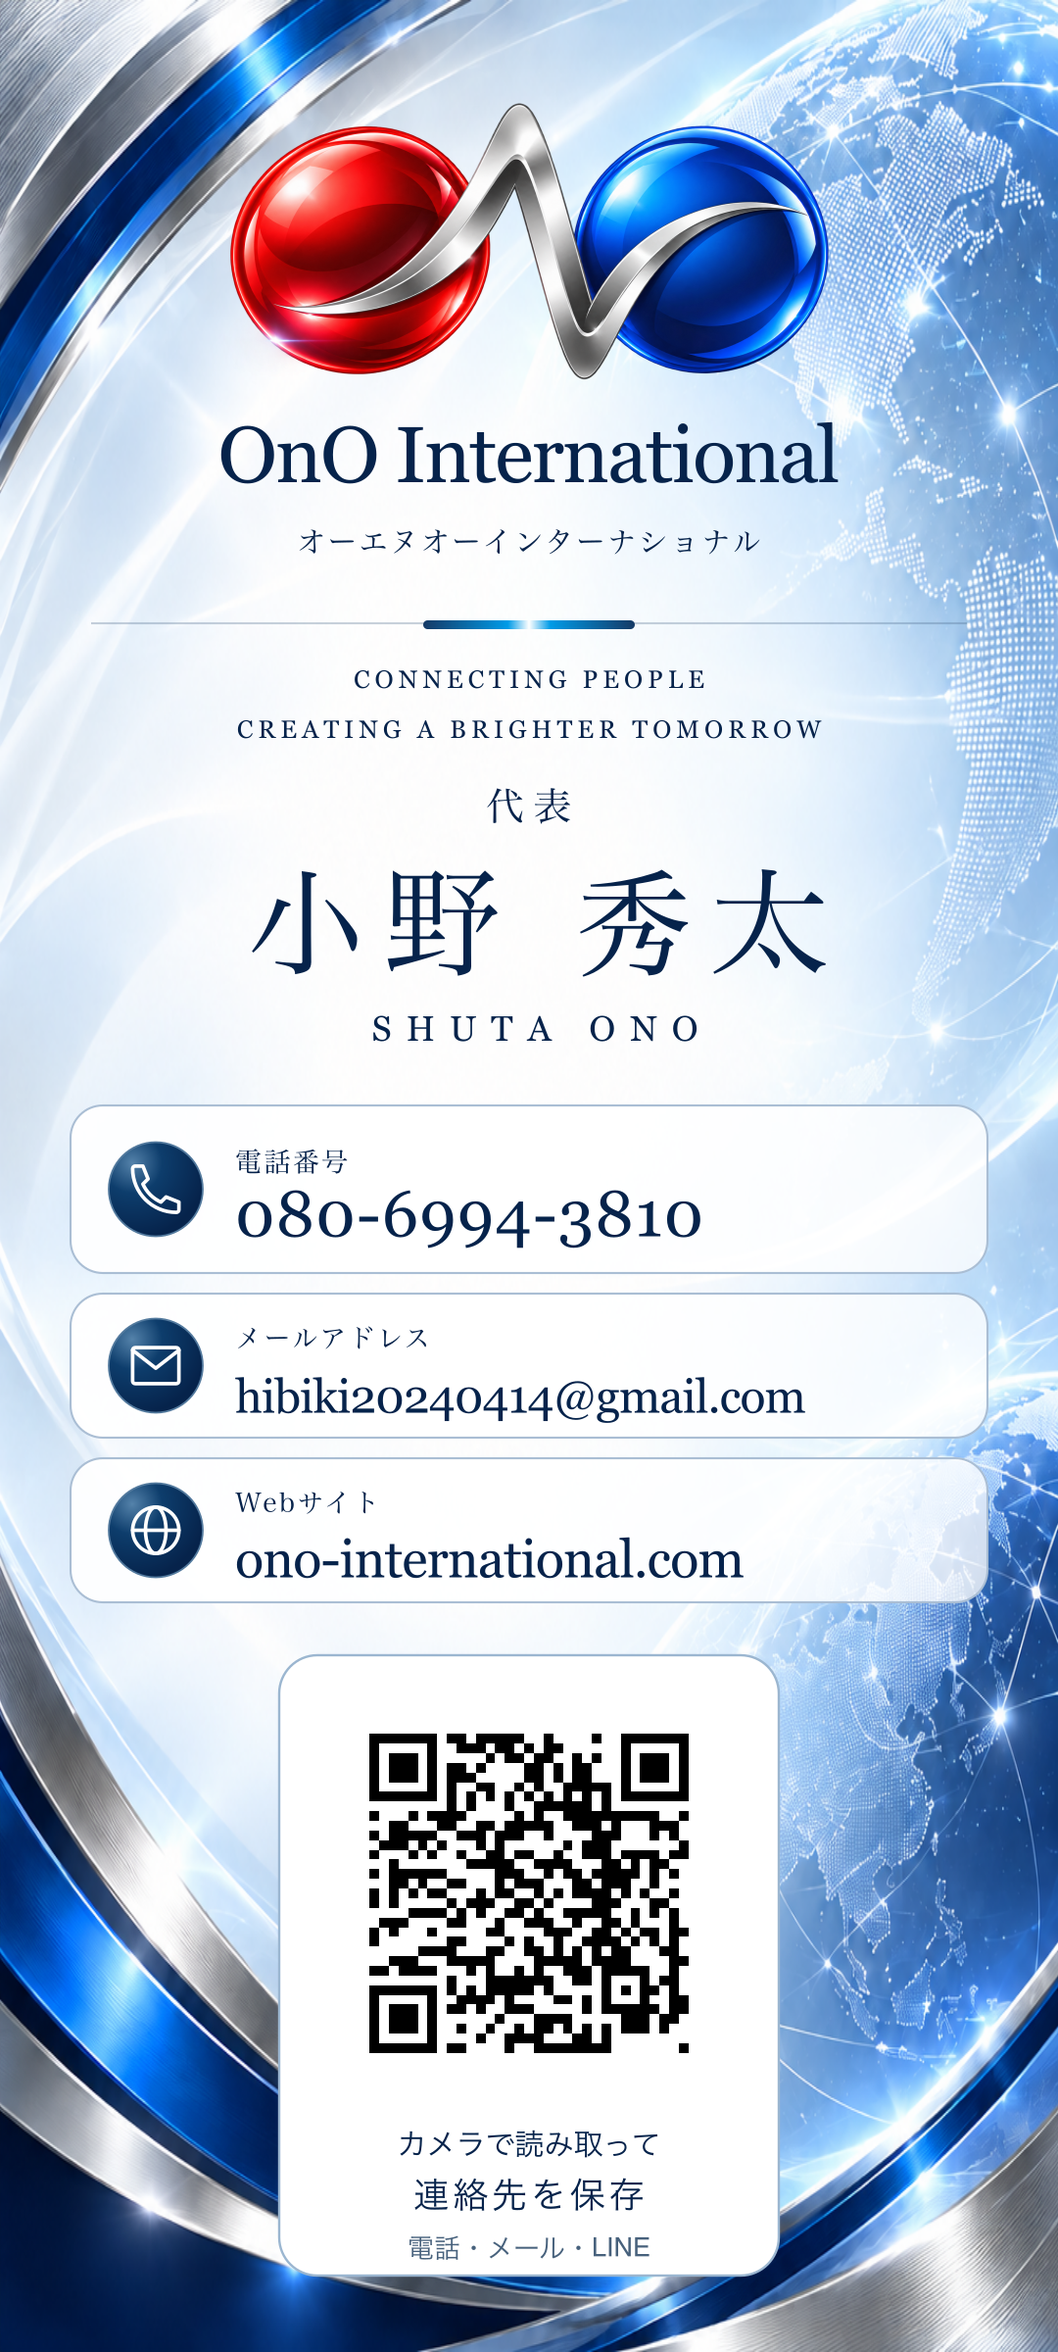
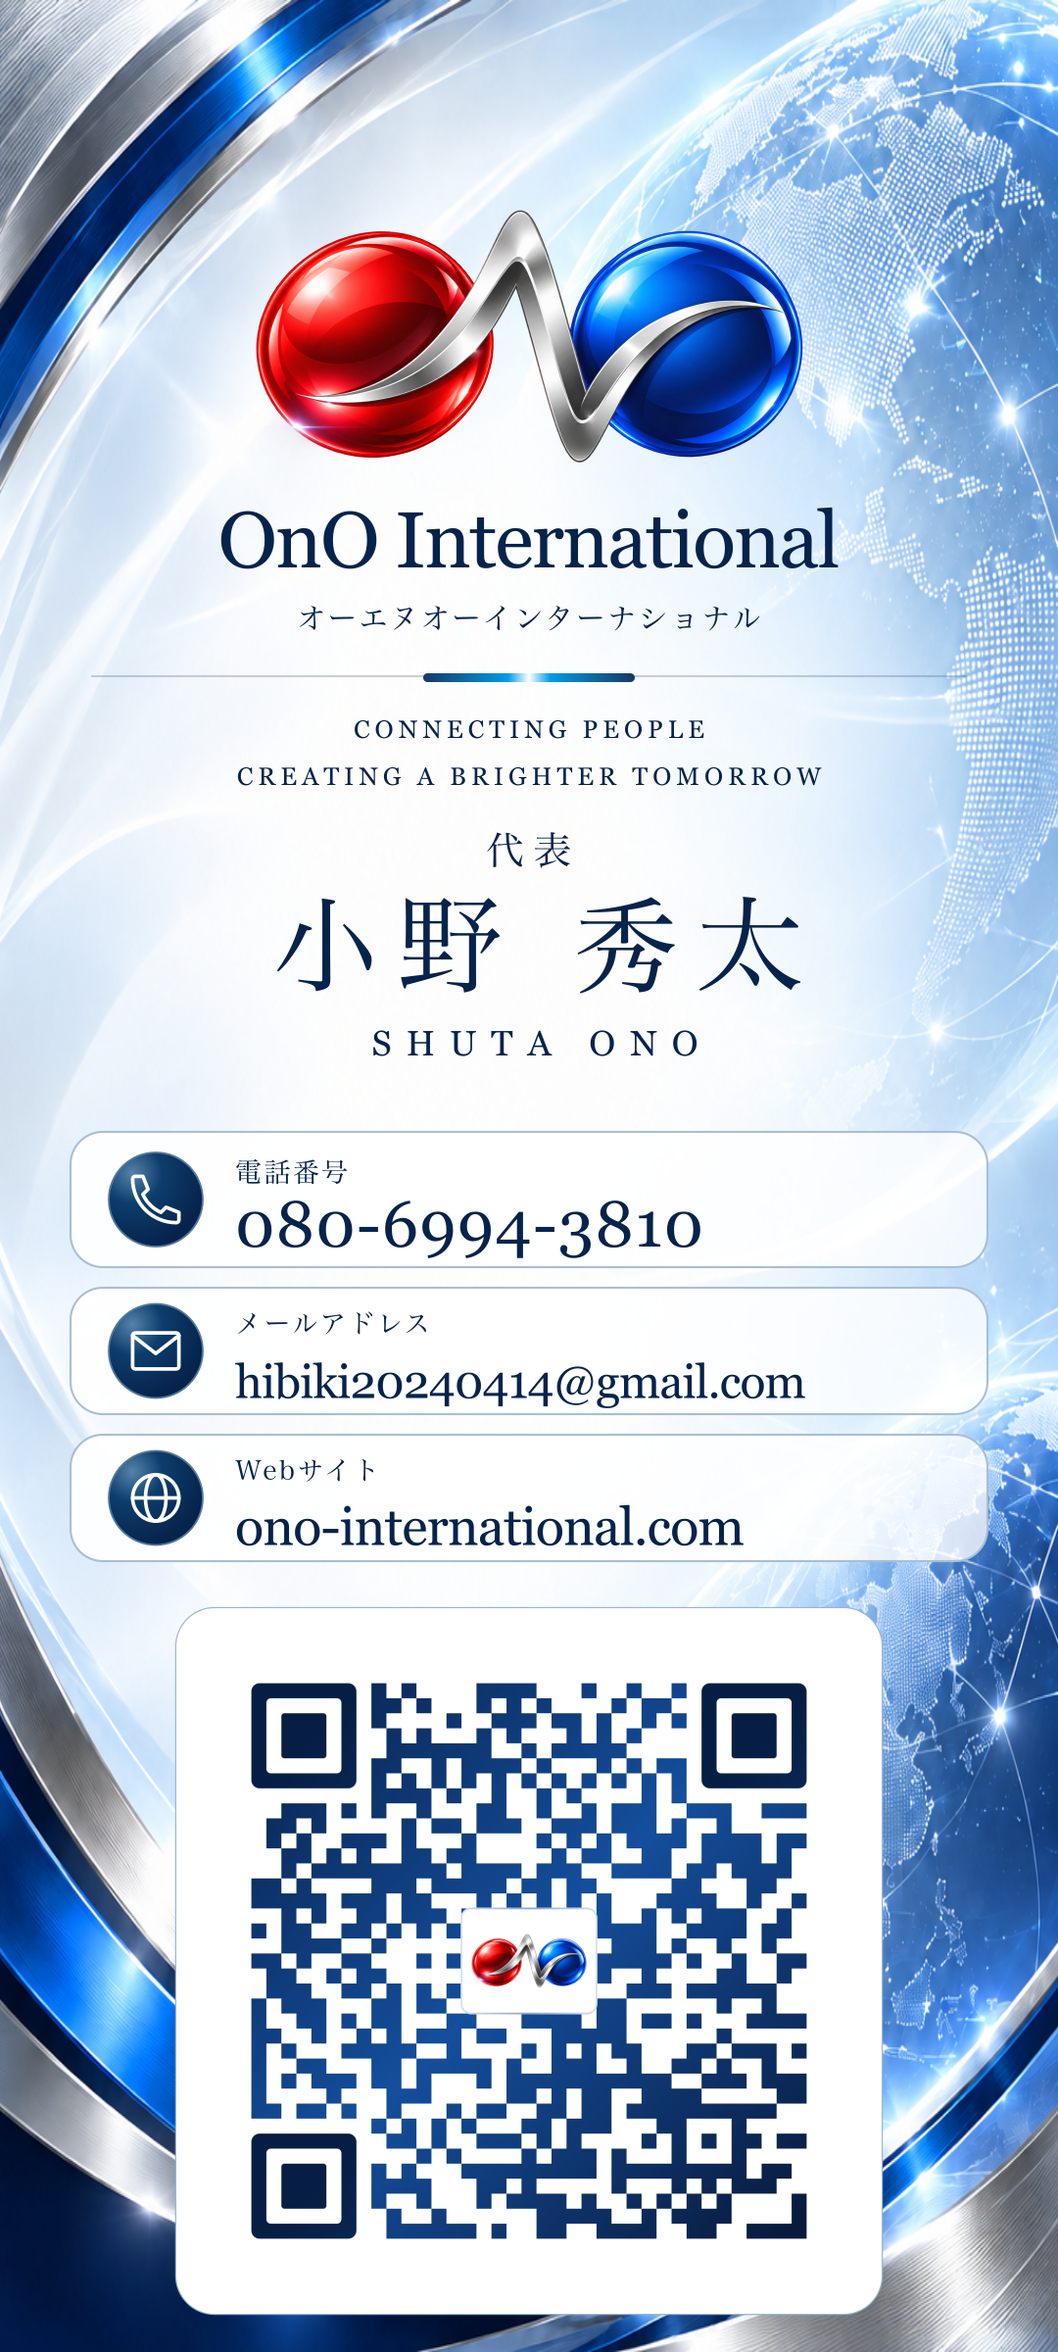
Apply approved branded QR and camera-safe card layout

diff --git a/public/card/presentation.css b/public/card/presentation.css
@@ -1,5 +1,16 @@
-:root{color-scheme:light;--ink:#06234b;--serif:"Yu Mincho","Hiragino Mincho ProN","Noto Serif JP",serif}*{box-sizing:border-box}body{margin:0;background:#dce9f5;color:var(--ink);-webkit-font-smoothing:antialiased}a{color:inherit}a:focus-visible{outline:3px solid #227ee1;outline-offset:4px}.presentation{min-height:100svh;display:grid;place-items:center;padding:12px}.show-card{width:100%;max-width:440px;min-height:calc(100svh - 24px);max-height:900px;padding:26px 24px 24px;position:relative;overflow:hidden;display:flex;flex-direction:column;align-items:center;justify-content:center;background:#edf5ff url('assets/presentation-background.png') center/100% 100% no-repeat;box-shadow:0 18px 55px #14355830;border-radius:14px;text-align:center;font-family:var(--serif)}.brand{width:100%}.logo{display:block;width:67%;max-width:248px;height:auto;margin:0 auto 7px}.company{font-family:Georgia,"Times New Roman",serif;font-size:clamp(23px,6.8vw,32px);white-space:nowrap;line-height:1.1;margin:0;font-weight:500;letter-spacing:-.025em;text-shadow:0 1px 10px #fff}.company span{font-variant:small-caps}.company-kana{font-size:clamp(9px,2.8vw,12px);letter-spacing:.07em;margin:8px 0 0;white-space:nowrap}.signature-rule{height:1px;width:95%;background:linear-gradient(90deg,transparent,#49648780,transparent);margin:17px 0 12px;position:relative}.signature-rule i{position:absolute;left:38%;top:-1px;width:24%;height:3px;background:linear-gradient(90deg,#153965,#009be7,#fff,#009be7,#153965);border-radius:3px}.tagline{font-family:Georgia,serif;font-size:9px;letter-spacing:.2em;line-height:1.8;margin:0}.identity{margin:15px 0 14px}.role{font-size:13px;letter-spacing:.25em;margin:0 0 4px}h1{font-weight:500;font-size:40px;line-height:1.3;letter-spacing:.17em;margin:0;padding-left:.17em;white-space:nowrap}.roman-name{font-family:Georgia,serif;font-size:12px;letter-spacing:.42em;margin:5px 0 0;padding-left:.42em}.details{width:100%;margin:0;display:grid;gap:7px;text-align:left}.detail{display:flex;align-items:center;gap:12px;padding:7px 12px;border:1px solid #9cb6d16b;border-radius:11px;background:linear-gradient(115deg,#ffffffee,#ffffffb8);box-shadow:0 1px 3px #0c315622;min-width:0}.detail>div{min-width:0}.icon{width:32px;height:32px;flex-shrink:0;display:grid;place-items:center;background:radial-gradient(circle at 25% 22%,#5482aa,#0d3d6c 35%,#06234b 72%);border:1px solid #466e92;border-radius:50%;box-shadow:0 2px 4px #06315833;color:white}.icon svg{width:21px;height:21px;stroke:currentColor;stroke-width:1.4;stroke-linejoin:round;stroke-linecap:round;fill:none}dt{font-size:9px;letter-spacing:.1em;line-height:1.3}dd{font-family:Georgia,"Times New Roman",serif;font-size:18px;margin:2px 0 0;line-height:1.25;white-space:nowrap;letter-spacing:-.02em}dd.phone{font-size:22px;letter-spacing:.02em}dd.email{font-size:16px}.exchange{margin:17px 0 0;padding:8px 12px 10px;background:#fff;border:1px solid #9bb6d0;border-radius:13px;box-shadow:0 2px 7px #183d5d33}.qr{display:block;line-height:0}.qr img{display:block;width:148px;height:148px;image-rendering:pixelated}figcaption{font-family:-apple-system,BlinkMacSystemFont,"Hiragino Kaku Gothic ProN","Yu Gothic",sans-serif;font-size:10px;line-height:1.6;margin-top:0}figcaption strong{font-weight:500;font-size:12px;letter-spacing:.12em}figcaption span{display:block;color:#47617c;font-size:9px;margin-top:3px}.utility{display:flex;align-items:center;justify-content:center;gap:14px;font-family:-apple-system,sans-serif;font-size:11px;padding:14px 12px 24px;color:#335775}.utility a{text-decoration:none;min-height:32px;display:flex;align-items:center}.utility a:hover{text-decoration:underline}@media(min-width:650px){.presentation{padding:24px;min-height:900px}.show-card{min-height:852px;padding:50px 30px}.logo{width:78%}.company{font-size:33px}.company-kana{font-size:12px}.identity{margin-top:24px;margin-bottom:24px}.qr img{width:168px;height:168px}.exchange{margin-top:24px}}@media(max-height:760px) and (max-width:649px){.presentation{padding:8px}.show-card{min-height:calc(100svh - 16px);padding:22px 24px 23px}.logo{width:63%;max-width:198px;margin-bottom:5px}.company{font-size:26px}.company-kana{font-size:10px;margin-top:5px}.signature-rule{margin:12px 0 8px}.tagline{font-size:8px;line-height:1.6}.identity{margin:12px 0}.role{font-size:12px;margin-bottom:2px}h1{font-size:34px}.roman-name{font-size:10px;margin-top:2px}.details{gap:5px}.detail{padding:6px 10px;gap:11px}.icon{width:29px;height:29px}.icon svg{width:19px;height:19px}dd{font-size:17px}dd.phone{font-size:20px}dd.email{font-size:15px}dt{font-size:8px}.exchange{margin-top:12px;padding:5px 9px 7px}.qr img{width:128px;height:128px}figcaption{font-size:9px;line-height:1.4}figcaption strong{font-size:11px}figcaption span{font-size:8px;margin-top:2px}}@media(max-width:350px){.show-card{padding-left:17px;padding-right:17px}.company{font-size:23px}.company-kana{font-size:9px}.detail{gap:9px;padding-left:8px;padding-right:8px}dd.email{font-size:13px}dd{font-size:15px}.logo{width:60%}.identity{margin:9px 0}h1{font-size:31px}.qr img{width:120px;height:120px}.tagline{font-size:7px}}@media print{body{background:#fff}.presentation{padding:0;min-height:0}.show-card{width:100mm;min-height:170mm;box-shadow:none;border-radius:0;-webkit-print-color-adjust:exact;print-color-adjust:exact}.utility{display:none}}
-@media(max-height:760px) and (max-width:649px){.logo{width:52%;max-width:170px}.identity{margin:8px 0}.detail{padding-top:4px;padding-bottom:4px}.exchange figcaption span{display:none}}
-@media(max-height:600px) and (max-width:649px){.show-card{padding-top:16px;padding-bottom:16px}.logo{width:43%;max-width:140px}.signature-rule{margin:8px 0 6px}.tagline{display:none}.identity{margin:6px 0}h1{font-size:29px}.exchange{margin-top:9px}.qr img{width:120px;height:120px}}
-
-.save-strip{max-width:440px;margin:0 auto;padding:12px 22px 0;text-align:center;font-family:-apple-system,BlinkMacSystemFont,"Hiragino Kaku Gothic ProN","Yu Gothic",sans-serif}.save-strip>a{display:flex;justify-content:center;align-items:center;min-height:48px;background:#173f6b;color:#fff;text-decoration:none;border-radius:10px;font-size:14px}.save-strip>a:hover{background:#22588f}.save-strip p{font-size:10px;line-height:1.8;color:#335775;margin:9px 0 0}@media print{.save-strip{display:none}}
+:root{color-scheme:light;--ink:#06234b;--serif:"Yu Mincho","Hiragino Mincho ProN","Noto Serif JP",serif}
+*{box-sizing:border-box}body{margin:0;background:#dce9f5;color:var(--ink);-webkit-font-smoothing:antialiased}a{color:inherit}a:focus-visible{outline:3px solid #227ee1;outline-offset:4px}
+.presentation{min-height:100svh;display:grid;place-items:center;padding:12px}
+.show-card{width:100%;max-width:440px;min-height:calc(100svh - 24px);padding:max(64px,calc(env(safe-area-inset-top) + 18px)) 24px 16px;position:relative;overflow:hidden;display:flex;flex-direction:column;align-items:center;justify-content:center;background:#edf5ff url('assets/presentation-background.png') center/100% 100% no-repeat;box-shadow:0 18px 55px #14355830;border-radius:14px;text-align:center;font-family:var(--serif)}
+.brand{width:100%}.logo{display:block;width:60%;max-width:190px;height:auto;margin:0 auto 7px}.company{font-family:Georgia,"Times New Roman",serif;font-size:clamp(23px,6.8vw,28px);white-space:nowrap;line-height:1.1;margin:0;font-weight:500;letter-spacing:-.025em;text-shadow:0 1px 10px #fff}.company span{font-variant:small-caps}.company-kana{font-size:10px;letter-spacing:.07em;margin:5px 0 0;white-space:nowrap}
+.signature-rule{height:1px;flex-shrink:0;width:95%;background:linear-gradient(90deg,transparent,#49648780,transparent);margin:10px 0 7px;position:relative}.signature-rule i{position:absolute;left:38%;top:-1px;width:24%;height:3px;background:linear-gradient(90deg,#153965,#009be7,#fff,#009be7,#153965);border-radius:3px}.tagline{font-family:Georgia,serif;font-size:8px;letter-spacing:.2em;line-height:1.5;margin:0}
+.identity{margin:10px 0 11px}.role{font-size:12px;letter-spacing:.25em;margin:0 0 2px}h1{font-weight:500;font-size:36px;line-height:1.2;letter-spacing:.17em;margin:0;padding-left:.17em;white-space:nowrap}.roman-name{font-family:Georgia,serif;font-size:10px;letter-spacing:.42em;margin:4px 0 0;padding-left:.42em}
+.details{width:100%;margin:0;display:grid;gap:6px;text-align:left}.detail{display:flex;align-items:center;gap:12px;padding:5px 12px;border:1px solid #9cb6d16b;border-radius:11px;background:linear-gradient(115deg,#ffffffee,#ffffffb8);box-shadow:0 1px 3px #0c315622;min-width:0}.detail>div{min-width:0}.icon{width:30px;height:30px;flex-shrink:0;display:grid;place-items:center;background:radial-gradient(circle at 25% 22%,#5482aa,#0d3d6c 35%,#06234b 72%);border:1px solid #466e92;border-radius:50%;box-shadow:0 2px 4px #06315833;color:white}.icon svg{width:21px;height:21px;stroke:currentColor;stroke-width:1.4;stroke-linejoin:round;stroke-linecap:round;fill:none}dt{font-size:9px;letter-spacing:.1em;line-height:1.3}dd{font-family:Georgia,"Times New Roman",serif;font-size:18px;margin:2px 0 0;line-height:1.25;white-space:nowrap;letter-spacing:-.02em}dd.phone{font-size:22px;letter-spacing:.02em}dd.email{font-size:16px}
+.exchange{margin:12px 0 0;padding:0;background:#fff;border:1px solid #9bb6d0;border-radius:14px;overflow:hidden;box-shadow:0 2px 7px #183d5d33}.qr{display:block;line-height:0}.qr img{display:block;width:240px;height:240px;image-rendering:auto}
+.utility{display:flex;align-items:center;justify-content:center;gap:14px;font-family:-apple-system,sans-serif;font-size:11px;padding:14px 12px 24px;color:#335775}.utility a{text-decoration:none;min-height:32px;display:flex;align-items:center}.utility a:hover{text-decoration:underline}
+.save-strip{max-width:440px;margin:0 auto;padding:12px 22px 0;text-align:center;font-family:-apple-system,BlinkMacSystemFont,"Hiragino Kaku Gothic ProN","Yu Gothic",sans-serif}.save-strip>a{display:flex;justify-content:center;align-items:center;min-height:48px;background:#173f6b;color:#fff;text-decoration:none;border-radius:10px;font-size:14px}.save-strip>a:hover{background:#22588f}.save-strip p{font-size:10px;line-height:1.8;color:#335775;margin:9px 0 0}
+@media(min-width:650px){.presentation{padding:24px;min-height:900px}.show-card{min-height:852px;padding:70px 30px 24px}.logo{width:60%;max-width:210px}.company{font-size:31px}.company-kana{font-size:11px}.identity{margin:16px 0}.qr img{width:240px;height:240px}.exchange{margin-top:16px}}
+@media(max-height:760px) and (max-width:649px){.presentation{padding:8px}.show-card{min-height:calc(100svh - 16px);padding:max(54px,calc(env(safe-area-inset-top) + 12px)) 24px 18px}.logo{width:48%;max-width:150px;margin-bottom:5px}.company{font-size:25px}.company-kana{font-size:9px;margin-top:4px}.signature-rule{margin:8px 0 6px}.tagline{font-size:7px}.identity{margin:8px 0}.role{font-size:11px}h1{font-size:32px}.roman-name{font-size:9px;margin-top:3px}.details{gap:5px}.detail{padding:4px 10px;gap:11px}.icon{width:28px;height:28px}.icon svg{width:19px;height:19px}dd{font-size:17px}dd.phone{font-size:20px}dd.email{font-size:15px}dt{font-size:8px}.exchange{margin-top:10px}.qr img{width:180px;height:180px}}
+@media(max-width:350px){.show-card{padding-left:17px;padding-right:17px}.company{font-size:23px}.company-kana{font-size:9px}.detail{gap:9px;padding-left:8px;padding-right:8px}dd.email{font-size:13px}dd{font-size:15px}.logo{width:46%}.identity{margin:7px 0}h1{font-size:30px}.tagline{font-size:7px}}
+@media(max-height:600px) and (max-width:649px){.show-card{padding-top:max(44px,calc(env(safe-area-inset-top) + 12px));padding-bottom:8px}.logo{width:34%;max-width:110px}.tagline{display:none}.signature-rule{margin:7px 0 5px}.identity{margin:5px 0}h1{font-size:29px}.details{gap:4px}.detail{padding-top:2px;padding-bottom:2px}.exchange{margin-top:8px}.qr img{width:180px;height:180px}}
+@media print{body{background:#fff}.presentation{padding:0;min-height:0}.show-card{width:100mm;min-height:222mm;box-shadow:none;border-radius:0;-webkit-print-color-adjust:exact;print-color-adjust:exact}.utility,.save-strip{display:none}}

diff --git a/public/card/contact/index.html b/public/card/contact/index.html
@@ -55,7 +55,7 @@
         </section>
       </div>
       <section class="exchange" aria-label="名刺を渡す">
-        <button class="qr-preview" id="show-qr" aria-label="名刺のQRコードを拡大"><img src="../assets/card-qr.png" alt="この名刺ページを開くQRコード" width="152" height="152"><span>タップで拡大 <svg><use href="#i-qr"/></svg></span></button>
+        <button class="qr-preview" id="show-qr" aria-label="名刺のQRコードを拡大"><img src="../assets/card-qr.png?v=20261101-cosmic" alt="この名刺ページを開くQRコード" width="152" height="152"><span>タップで拡大 <svg><use href="#i-qr"/></svg></span></button>
         <div class="exchange-copy"><p class="eyebrow">LET’S CONNECT</p><h2>この名刺を、お手元に。</h2><p class="exchange-note">QRコードを読み取ると、<br>この名刺を開けます。</p><button class="share-button" id="share-card"><svg><use href="#i-share"/></svg>名刺を共有</button></div>
       </section>
       <footer class="card-footer"><span class="footer-mark"><i></i><i></i></span> OnO International</footer>
@@ -65,9 +65,9 @@
   <dialog id="qr-dialog" aria-labelledby="qr-title">
     <button class="close-dialog" id="close-qr" aria-label="閉じる"><svg><use href="#i-close"/></svg></button>
     <p class="eyebrow">DIGITAL BUSINESS CARD</p><h2 id="qr-title">小野 秀太</h2><p class="dialog-company">OnO International</p>
-    <img class="dialog-qr" src="../assets/card-qr.png" alt="名刺ページのQRコード" width="608" height="608">
+    <img class="dialog-qr" src="../assets/card-qr.png?v=20261101-cosmic" alt="名刺ページのQRコード" width="608" height="608">
     <p class="dialog-note">相手のスマホのカメラで読み取ってください。</p>
-    <a class="qr-download" href="../assets/card-qr.png" download="小野秀太_名刺QR.png"><svg><use href="#i-save"/></svg>QRコード画像を保存</a>
+    <a class="qr-download" href="../assets/card-qr.png?v=20261101-cosmic" download="小野秀太_名刺QR.png"><svg><use href="#i-save"/></svg>QRコード画像を保存</a>
     <label class="copy-label" for="card-url">名刺のURL</label><div class="copy-row"><input id="card-url" type="url" readonly value="https://ono-international.com/card/contact/"><button id="copy-link">コピー</button></div>
   </dialog>
   <div id="status" class="toast" role="status" aria-live="polite"></div>

diff --git a/public/card/save/index.html b/public/card/save/index.html
@@ -10,7 +10,7 @@
   <link rel="icon" href="../assets/ono-logo.png" type="image/png">
   <link rel="canonical" href="https://ono-international.com/card/save/">
   <link rel="stylesheet" href="save.css">
-  <script src="save.js" defer></script>
+  <script src="save.js?v=20261101-cosmic" defer></script>
 </head>
 <body>
   <main>
@@ -19,13 +19,13 @@
     <section class="actions" aria-label="画像の保存方法">
       <button id="save-photo" class="primary" type="button" hidden>写真に保存する</button>
       <p id="share-help" hidden>共有画面が開いたら「画像を保存」を選んでください。</p>
-      <a class="download" href="../assets/shuta-ono-card.png" download="小野秀太_OnO名刺.png">名刺画像をダウンロード</a>
+      <a class="download" href="../assets/shuta-ono-card.png?v=20261101-cosmic" download="小野秀太_OnO名刺.png">名刺画像をダウンロード</a>
       <p class="hint">下の画像を長押しして保存することもできます。<br>保存後は「写真」のお気に入りに入れると便利です。</p>
       <p id="save-status" class="status" role="status" aria-live="polite"></p>
     </section>
-    <img class="card-image" src="../assets/shuta-ono-card.png" width="1080" height="2400" alt="小野秀太の名刺画像。電話080-6994-3810、メールhibiki20240414@gmail.com、OnO公式サイトと連絡先保存用QRコード。">
+    <img class="card-image" src="../assets/shuta-ono-card.png?v=20261101-cosmic" width="1080" height="2400" alt="小野秀太の名刺画像。電話080-6994-3810、メールhibiki20240414@gmail.com、OnO公式サイトと連絡先保存用QRコード。">
     <p class="image-note">高画質PNG · 1080 × 2400 px<br>画像のQRから、連絡先を保存するページが開きます。</p>
-    <a class="original" href="../assets/shuta-ono-card.png">画像だけを開く ↗</a>
+    <a class="original" href="../assets/shuta-ono-card.png?v=20261101-cosmic">画像だけを開く ↗</a>
   </main>
 </body>
 </html>

diff --git a/public/card/index.html b/public/card/index.html
@@ -14,7 +14,7 @@
   <meta property="og:image" content="https://ono-international.com/card/assets/ono-logo.png">
   <link rel="icon" href="assets/ono-logo.png" type="image/png">
   <link rel="canonical" href="https://ono-international.com/card/">
-  <link rel="stylesheet" href="presentation.css">
+  <link rel="stylesheet" href="presentation.css?v=20261101-cosmic">
 </head>
 <body>
   <main class="presentation">
@@ -46,12 +46,12 @@
         </div>
       </dl>
       <figure class="exchange">
-        <a class="qr" href="contact/" aria-label="QRコードから開く連絡先ページを表示"><img src="assets/card-qr.png" alt="小野秀太の連絡先を開くQRコード" width="720" height="720"></a>
-        <figcaption>カメラで読み取って<br><strong>連絡先を保存</strong><span>電話・メール・LINE</span></figcaption>
+        <a class="qr" href="contact/" aria-label="QRコードから開く連絡先ページを表示"><img src="assets/card-qr.png?v=20261101-cosmic" alt="小野秀太の連絡先を開くQRコード" width="720" height="720"></a>
+
       </figure>
     </article>
   </main>
   <section class="save-strip" aria-label="名刺画像の保存"><a href="save/">名刺画像を保存</a><p>写真アプリに保存して、いつでも名刺を見せられます。</p></section>
-  <nav class="utility" aria-label="名刺の操作"><a href="contact/">連絡先を開く</a><span>·</span><a href="assets/card-qr.png" download="小野秀太_名刺QR.png">QRを保存</a><span>·</span><a href="/">公式サイトへ</a></nav>
+  <nav class="utility" aria-label="名刺の操作"><a href="contact/">連絡先を開く</a><span>·</span><a href="assets/card-qr.png?v=20261101-cosmic" download="小野秀太_名刺QR.png">QRを保存</a><span>·</span><a href="/">公式サイトへ</a></nav>
 </body>
 </html>

diff --git a/public/card/save/save.js b/public/card/save/save.js
@@ -7,7 +7,7 @@ let cardFile;
 async function preparePhoto() {
   if (typeof navigator.share !== 'function' || typeof navigator.canShare !== 'function') return;
   try {
-    const response = await fetch('../assets/shuta-ono-card.png');
+    const response = await fetch('../assets/shuta-ono-card.png?v=20261101-cosmic');
     if (!response.ok) return;
     const blob = await response.blob();
     if (blob.type !== 'image/png') return;
